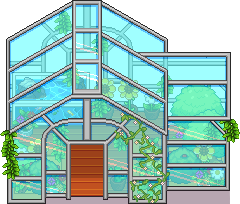
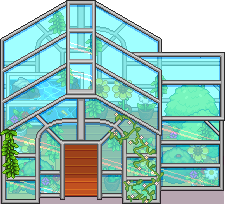
add png

diff --git a/Stardewponics/Greenhouse.cs b/Stardewponics/Greenhouse.cs
@@ -25,9 +25,9 @@ namespace Stardewponics
 			tileX = 0;
 			tileY = 0;
 			maxOccupants = 0;
-			tilesWide = 15;
+			tilesWide = 14;
 			tilesHigh = 7;
-			this.texture = content.Load<Texture2D>(@"assets\greenhouse.png", ContentSource.ModFolder);
+			this.texture = content.Load<Texture2D>(@"assets\greenhouse.xnb", ContentSource.ModFolder);
 			daysOfConstructionLeft = 1;
 			leftShadow = new Rectangle(656, 394, 16, 16); //656, 394, 16, 16
 		}
@@ -74,7 +74,7 @@ namespace Stardewponics
 
 		public override Rectangle getSourceRectForMenu()
 		{
-			return new Rectangle(0, 0, this.texture.Bounds.Width, this.texture.Bounds.Height);   
+			return new Rectangle(0, 0, this.texture.Bounds.Width-1, this.texture.Bounds.Height);   
 		}
 	}
 }
